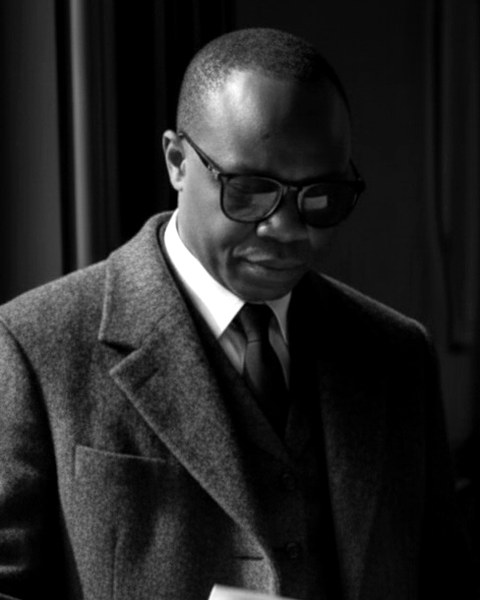
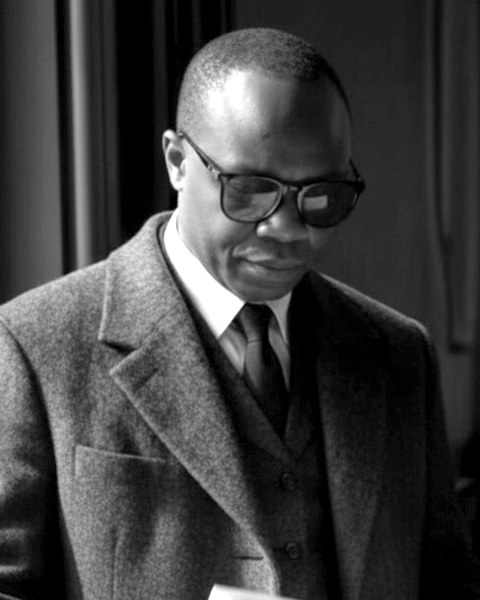
fix: mise en page article vedette + rail, exposition de la photo
- Le flux global et les pages domaine reprennent enfin la structure
  validée dans les maquettes "Encre chaude" (article vedette à gauche,
  rail des autres articles à droite), au lieu de la simple liste
  verticale héritée de l'ancien design.
- Élargissement de la colonne principale (960px) pour cette mise en
  page à deux colonnes ; les pages en prose (article, à propos)
  gardent une mesure de lecture plus étroite (720px).
- Retraitement de la photo de la page À propos : la version
  précédente assombrissait encore une source déjà sombre/contrastée.
  Étirement d'histogramme + correction gamma pour un noir & blanc
  lisible plutôt qu'écrasé.

diff --git a/frontend/app/globals.css b/frontend/app/globals.css
@@ -91,7 +91,7 @@ a:hover {
 }
 
 .site-header-inner {
-  max-width: 760px;
+  max-width: 960px;
   margin: 0 auto;
   padding-bottom: 1.1rem;
 }
@@ -145,18 +145,147 @@ a:hover {
 }
 
 main {
-  max-width: 760px;
+  max-width: 960px;
   margin: 0 auto;
   padding: 2rem 1.5rem;
 }
 
 .site-footer {
-  max-width: 760px;
+  max-width: 960px;
   margin: 0 auto;
   padding: 1.5rem;
   color: var(--couleur-muted);
   font-size: 0.85rem;
   border-top: 1px solid var(--couleur-bordure);
+}
+
+/* Pages en prose : mesure de lecture plus étroite que le flux */
+.page-article,
+.page-apropos {
+  max-width: 720px;
+  margin: 0 auto;
+}
+
+/* ============ Flux : article vedette + rail ============ */
+
+.page-flux > h1 {
+  font-family: -apple-system, BlinkMacSystemFont, 'Segoe UI', Helvetica, Arial, sans-serif;
+  font-size: 0.78rem;
+  font-weight: 700;
+  letter-spacing: 0.06em;
+  text-transform: uppercase;
+  color: var(--couleur-muted);
+  margin: 0 0 0.4rem;
+}
+
+.domaine-description {
+  font-family: var(--police-affichage);
+  font-style: italic;
+  font-weight: 500;
+  color: var(--couleur-accent);
+  font-size: 1.05rem;
+  margin: 0 0 1.5rem;
+}
+
+.layout {
+  display: grid;
+  grid-template-columns: 1.6fr 1fr;
+  gap: 0;
+  border-top: 3px solid var(--couleur-texte);
+  margin-top: 1.25rem;
+}
+
+.lead {
+  padding: 2rem 2rem 2rem 0;
+  border-right: 1px solid var(--couleur-bordure);
+}
+
+.lead .eyebrow {
+  font-family: var(--police-affichage);
+  font-style: italic;
+  font-weight: 500;
+  color: var(--domaine-couleur, var(--couleur-accent));
+  font-size: 1rem;
+  margin-bottom: 0.5rem;
+  display: block;
+}
+
+.lead h2 {
+  font-size: 2.1rem;
+  line-height: 1.15;
+  margin: 0 0 0.9rem;
+  text-wrap: balance;
+}
+
+.lead .dek {
+  font-size: 1.1rem;
+  line-height: 1.58;
+  color: var(--couleur-texte-doux);
+  max-width: 56ch;
+  margin: 0 0 1.1rem;
+}
+
+.lead .byline {
+  display: flex;
+  flex-wrap: wrap;
+  gap: 0.75rem;
+  align-items: center;
+  font-size: 0.8rem;
+  color: var(--couleur-muted);
+  border-top: 1px solid var(--couleur-bordure);
+  padding-top: 0.9rem;
+}
+
+.rail {
+  padding: 2rem 0 2rem 1.75rem;
+  display: flex;
+  flex-direction: column;
+}
+
+.rail-title {
+  font-family: var(--police-affichage);
+  font-style: italic;
+  font-weight: 500;
+  font-size: 0.95rem;
+  color: var(--couleur-muted);
+  margin: 0 0 1rem;
+}
+
+.rail-item {
+  padding: 0.95rem 0;
+  border-top: 1px solid var(--couleur-bordure);
+  border-left: 3px solid var(--domaine-couleur, var(--couleur-bordure));
+  padding-left: 0.85rem;
+}
+
+.rail-item:first-of-type {
+  border-top: none;
+  padding-top: 0;
+}
+
+.rail-item h3 {
+  font-size: 1.05rem;
+  line-height: 1.32;
+  margin: 0.3rem 0 0.35rem;
+}
+
+.rail-item .meta {
+  font-size: 0.72rem;
+  color: var(--couleur-muted);
+}
+
+@media (max-width: 760px) {
+  .layout {
+    grid-template-columns: 1fr;
+  }
+  .lead {
+    padding-right: 0;
+    border-right: none;
+    border-bottom: 1px solid var(--couleur-bordure);
+  }
+  .rail {
+    padding-left: 0;
+  }
 }
 
 /* ============ Listes d'articles ============ */
@@ -167,12 +296,10 @@ main {
   gap: 1.75rem;
 }
 
-.domaine-description {
-  font-family: var(--police-affichage);
-  font-style: italic;
-  font-weight: 500;
-  color: var(--couleur-accent);
-  font-size: 1.05rem;
+.liste-articles-suite {
+  margin-top: 2.5rem;
+  padding-top: 0.5rem;
+  border-top: 1px solid var(--couleur-bordure);
 }
 
 .article-card {

diff --git a/frontend/app/domaine/[slug]/page.js b/frontend/app/domaine/[slug]/page.js
@@ -1,6 +1,8 @@
 import { Fragment } from 'react';
 import { notFound } from 'next/navigation';
 import ArticleCard from '../../../components/ArticleCard.js';
+import ArticleLead from '../../../components/ArticleLead.js';
+import ArticleRailItem from '../../../components/ArticleRailItem.js';
 import PubSlot from '../../../components/PubSlot.js';
 import { getDomaineParSlug } from '../../../lib/domaines.js';
 import { getArticlesPublies } from '../../../lib/articles.js';
@@ -32,14 +34,37 @@ export default async function DomainePage({ params }) {
       {articles.length === 0 ? (
         <p>Aucun article publié pour ce domaine pour le moment.</p>
       ) : (
-        <div className="liste-articles">
-          {articles.map((article, index) => (
-            <Fragment key={article.id}>
-              <ArticleCard article={article} afficherDomaine={false} />
-              {index === 2 && <PubSlot slotId="domaine-1" />}
-            </Fragment>
-          ))}
-        </div>
+        (() => {
+          const [vedette, ...reste] = articles;
+          const rail = reste.slice(0, 4);
+          const suite = reste.slice(4);
+          return (
+            <>
+              <div className="layout">
+                <ArticleLead article={vedette} afficherDomaine={false} />
+                {rail.length > 0 && (
+                  <aside className="rail">
+                    <p className="rail-title">Aussi cette semaine</p>
+                    {rail.map((article) => (
+                      <ArticleRailItem key={article.id} article={article} afficherDomaine={false} />
+                    ))}
+                  </aside>
+                )}
+              </div>
+
+              {suite.length > 0 && (
+                <div className="liste-articles liste-articles-suite">
+                  {suite.map((article, index) => (
+                    <Fragment key={article.id}>
+                      <ArticleCard article={article} afficherDomaine={false} />
+                      {index === 2 && <PubSlot slotId="domaine-1" />}
+                    </Fragment>
+                  ))}
+                </div>
+              )}
+            </>
+          );
+        })()
       )}
     </div>
   );

diff --git a/frontend/app/page.js b/frontend/app/page.js
@@ -1,5 +1,7 @@
 import { Fragment } from 'react';
 import ArticleCard from '../components/ArticleCard.js';
+import ArticleLead from '../components/ArticleLead.js';
+import ArticleRailItem from '../components/ArticleRailItem.js';
 import PubSlot from '../components/PubSlot.js';
 import { getArticlesPublies } from '../lib/articles.js';
 
@@ -10,14 +12,37 @@ export const dynamic = 'force-dynamic';
 export default async function AccueilPage() {
   const articles = await getArticlesPublies({ limite: 20 });
 
+  if (articles.length === 0) {
+    return (
+      <div className="page-flux">
+        <h1>Flux global</h1>
+        <p>Aucun article publié pour le moment.</p>
+      </div>
+    );
+  }
+
+  const [vedette, ...reste] = articles;
+  const rail = reste.slice(0, 4);
+  const suite = reste.slice(4);
+
   return (
     <div className="page-flux">
       <h1>Flux global</h1>
-      {articles.length === 0 ? (
-        <p>Aucun article publié pour le moment.</p>
-      ) : (
-        <div className="liste-articles">
-          {articles.map((article, index) => (
+      <div className="layout">
+        <ArticleLead article={vedette} />
+        {rail.length > 0 && (
+          <aside className="rail">
+            <p className="rail-title">Aussi cette semaine</p>
+            {rail.map((article) => (
+              <ArticleRailItem key={article.id} article={article} />
+            ))}
+          </aside>
+        )}
+      </div>
+
+      {suite.length > 0 && (
+        <div className="liste-articles liste-articles-suite">
+          {suite.map((article, index) => (
             <Fragment key={article.id}>
               <ArticleCard article={article} />
               {index === 2 && <PubSlot slotId="flux-global-1" />}

diff --git a/frontend/components/ArticleLead.js b/frontend/components/ArticleLead.js
@@ -1,0 +1,30 @@
+import Link from 'next/link';
+import CycleBadge from './CycleBadge.js';
+import { couleurDomaine } from '../lib/domaineCouleur.js';
+
+function formatDate(date) {
+  return new Date(date).toLocaleDateString('fr-FR', { day: 'numeric', month: 'long', year: 'numeric' });
+}
+
+export default function ArticleLead({ article, afficherDomaine = true }) {
+  const nbSources = Array.isArray(article.sources) ? article.sources.length : 0;
+
+  return (
+    <article className="lead" style={{ '--domaine-couleur': couleurDomaine(article.domaine_slug) }}>
+      {afficherDomaine && <span className="eyebrow">{article.domaine_nom} — analyse</span>}
+      <h2>
+        <Link href={`/article/${article.slug}`}>{article.titre}</Link>
+      </h2>
+      <p className="dek">{article.extrait}</p>
+      <div className="byline">
+        <CycleBadge typeCycle={article.type_cycle} />
+        {nbSources > 0 && (
+          <span>
+            {nbSources} source{nbSources > 1 ? 's' : ''} croisée{nbSources > 1 ? 's' : ''}
+          </span>
+        )}
+        <time dateTime={article.publie_le}>{formatDate(article.publie_le)}</time>
+      </div>
+    </article>
+  );
+}

diff --git a/frontend/components/ArticleRailItem.js b/frontend/components/ArticleRailItem.js
@@ -1,0 +1,19 @@
+import Link from 'next/link';
+import { couleurDomaine } from '../lib/domaineCouleur.js';
+
+export default function ArticleRailItem({ article, afficherDomaine = true }) {
+  const nbSources = Array.isArray(article.sources) ? article.sources.length : 0;
+  const rythme = article.type_cycle === 'reactif' ? 'sujet chaud' : 'veille quotidienne';
+
+  return (
+    <div className="rail-item" style={{ '--domaine-couleur': couleurDomaine(article.domaine_slug) }}>
+      {afficherDomaine && <span className="domaine-tag">{article.domaine_nom}</span>}
+      <h3>
+        <Link href={`/article/${article.slug}`}>{article.titre}</Link>
+      </h3>
+      <span className="meta">
+        {nbSources > 0 ? `${nbSources} source${nbSources > 1 ? 's' : ''} · ${rythme}` : rythme}
+      </span>
+    </div>
+  );
+}
